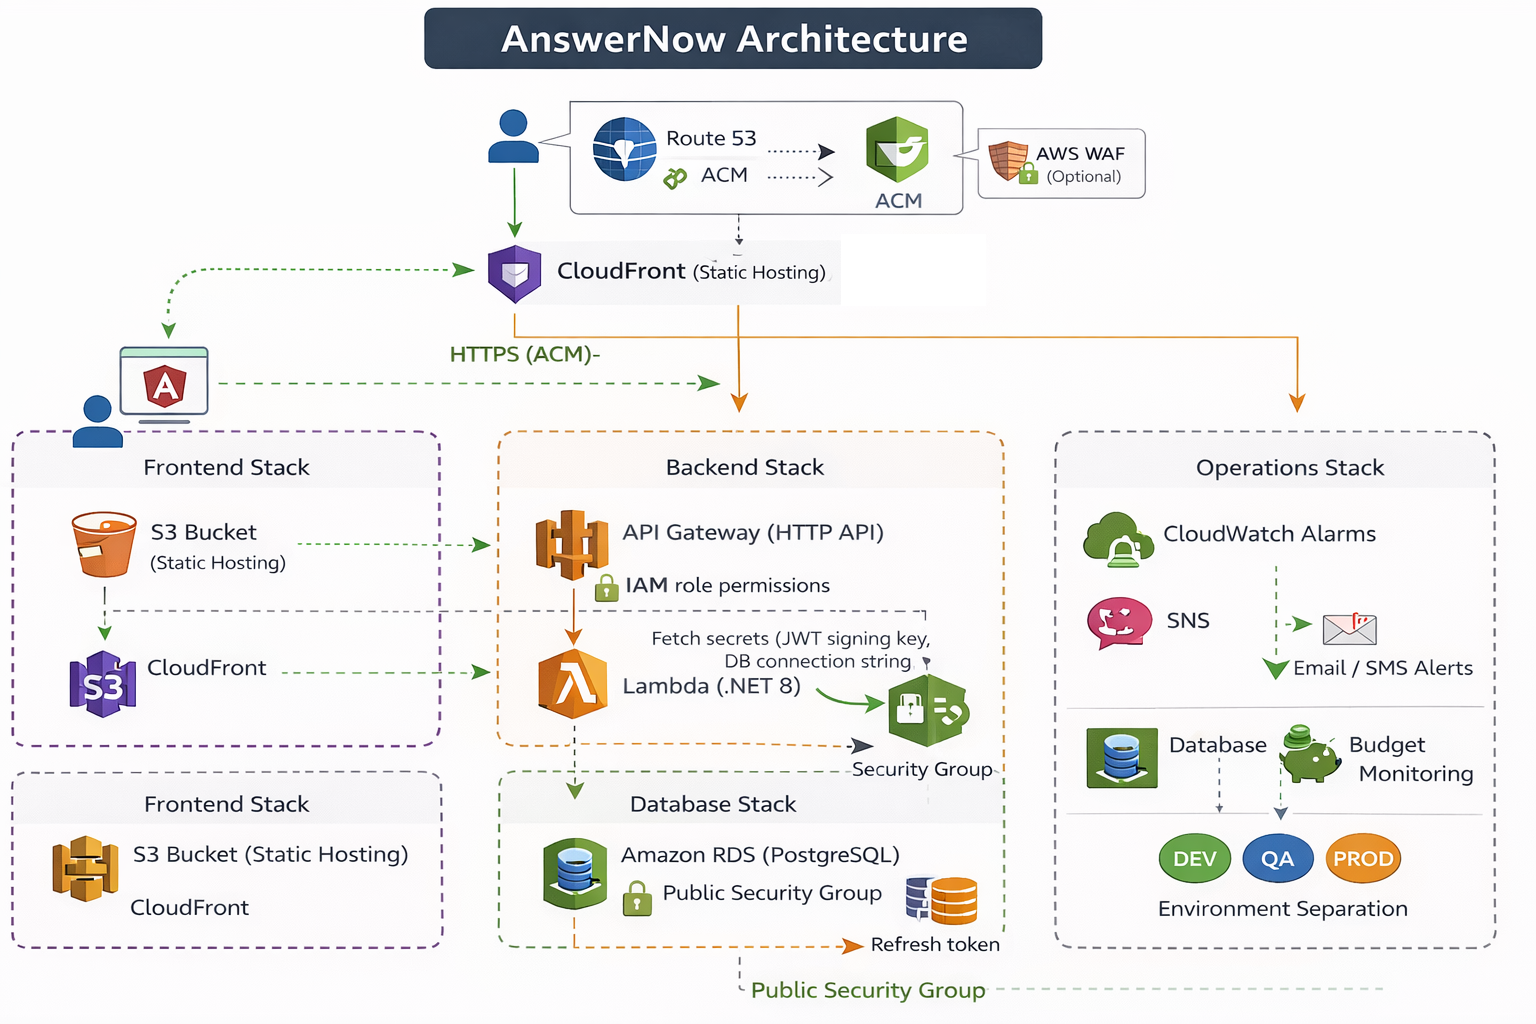
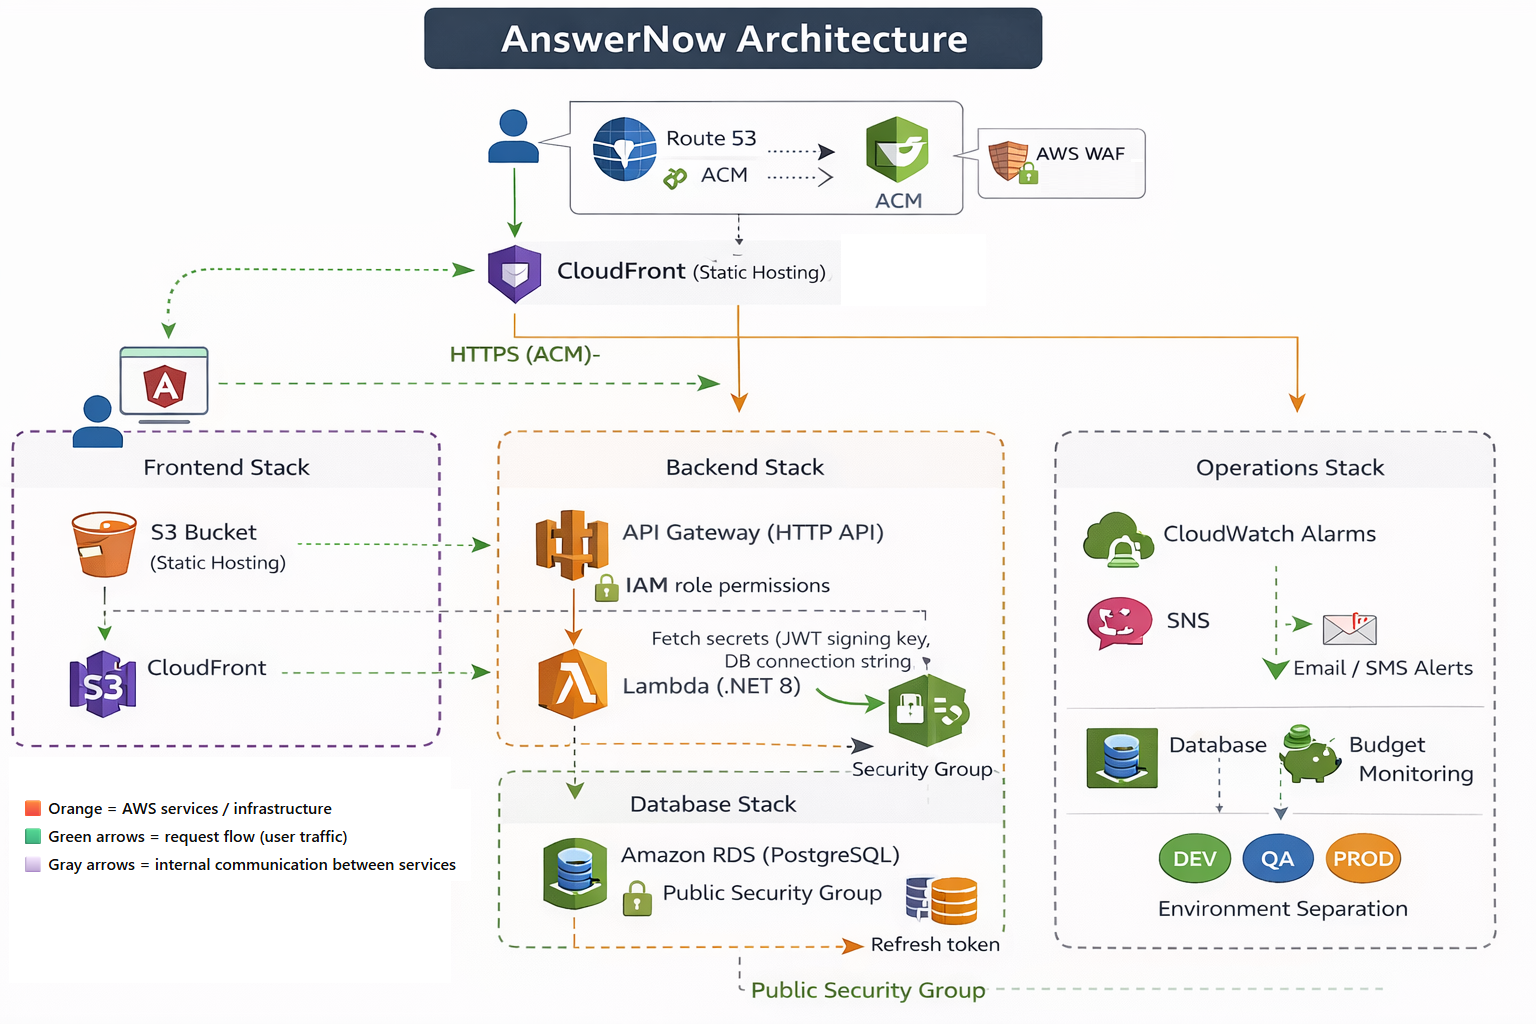
updated diagram image and added request flow explanation to architecure.md file

Changed region(s): [[0.0, 0.7812, 0.2812, 0.9062], [0.6875, 0.1562, 0.7188, 0.1875]]

diff --git a/docs/architecture.md b/docs/architecture.md
@@ -18,6 +18,23 @@ Key goals:
 
 ![Architecture Diagram](images/architecture-diagram.png)
 
+## Request Flow
+1. A user accesses the application through the custom domain configured in Route53.
+
+2. Route53 directs traffic to CloudFront, which serves the Angular single-page application from an S3 static hosting bucket.
+
+3. When the Angular frontend makes an API request, the request is routed through CloudFront to API Gateway.
+
+4. API Gateway invokes the backend Lambda function running the .NET 8 Web API.
+
+5. The ASP.NET middleware processes the request, authenticates the user using JWT authentication, and routes the request to the appropriate controller.
+
+6. Controllers call business services, which interact with repositories using EF Core to query or update the PostgreSQL database hosted in Amazon RDS.
+
+7. The response flows back through Lambda → API Gateway → CloudFront → the Angular client.
+
+8. Operational monitoring is handled by CloudWatch alarms, which can trigger SNS notifications and budget alerts if thresholds are exceeded.
+
 ---
 
 The following screenshots demonstrate the deployed production environment and operational monitoring configuration.
